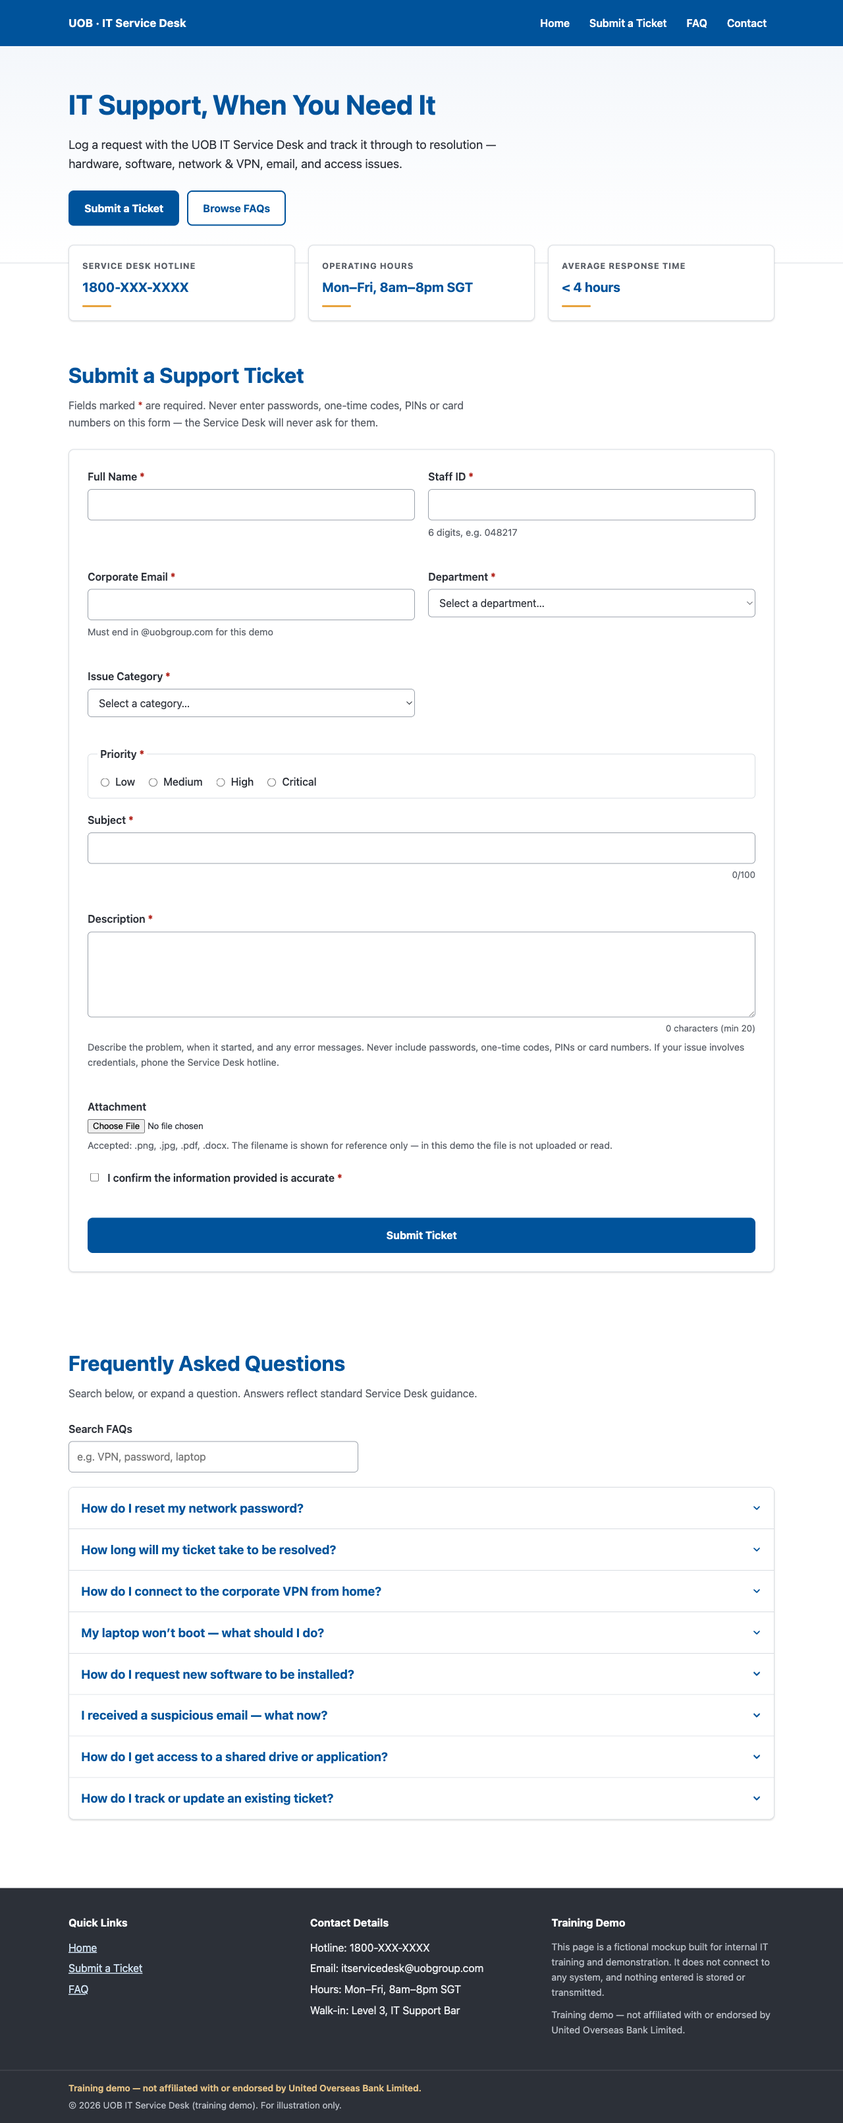
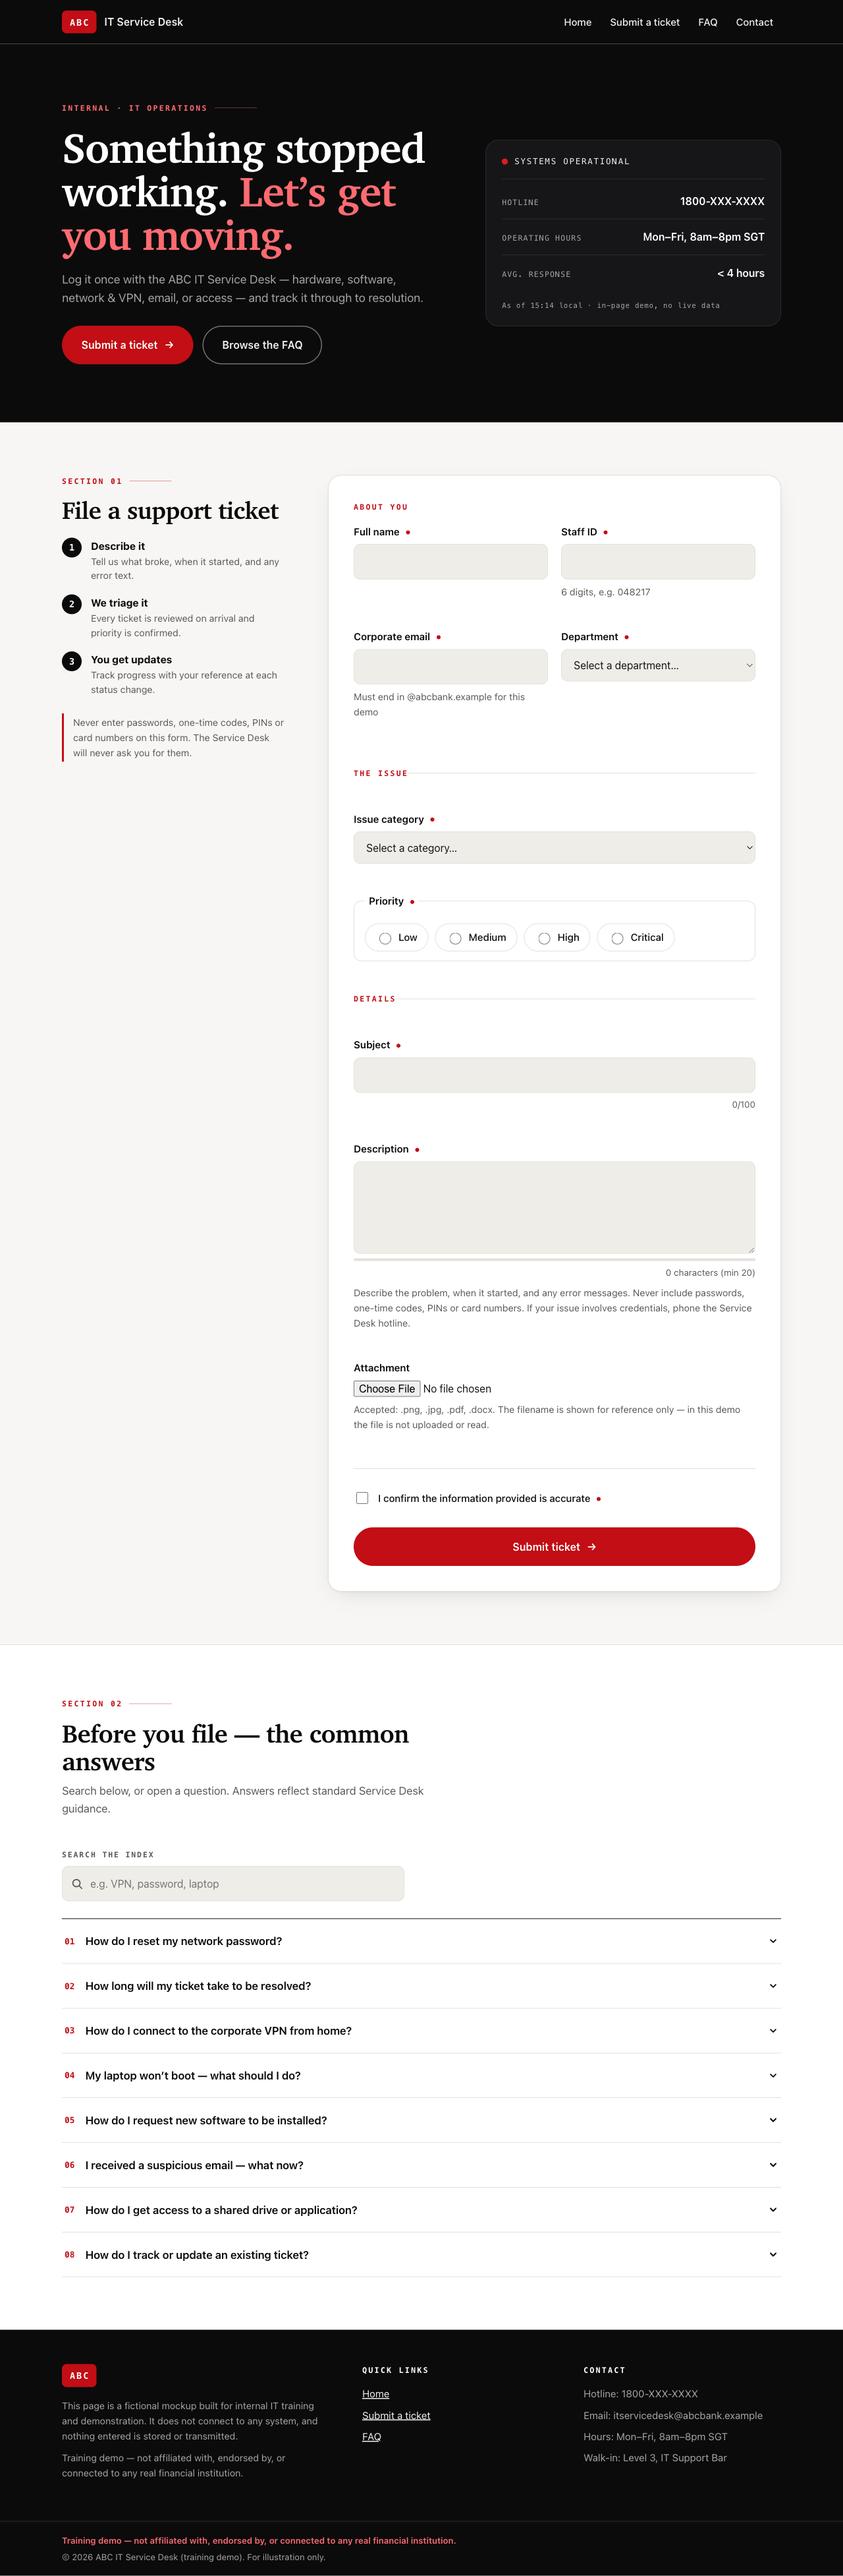
Rewrite README for the ABC re-theme; refresh preview screenshot
- README.md: retitled "ABC IT Service Desk", updated ticket-ref format to
  ABC-ITSD-*, described the grouped form / FAQ index / motion, generic
  non-affiliation disclaimer, added a Deployment note. No real bank named.
- docs/screenshot.png: recaptured full-page for the black/red ABC design.

diff --git a/README.md b/README.md
@@ -1,14 +1,15 @@
-# UOB IT Service Desk — Training Demo
+# ABC IT Service Desk — Training Demo
 
-A single self-contained HTML page ([index.html](index.html)) that mockups an internal
-IT Support Service Desk, themed as "UOB Bank". It is a training/demo artifact only —
-**not a real product, and it must not be presented as one.**
+A single self-contained HTML page ([index.html](index.html)) that mocks up an internal
+IT Support Service Desk for a fictional "ABC" organisation. It is a training/demo
+artifact only — **not a real product, not a real bank, and it must not be presented
+as one.**
 
 **Live demo:** https://billnguyense.github.io/claude-demo/
 
 ## Preview
 
-![Screenshot of the UOB IT Service Desk training demo page](docs/screenshot.png)
+![Screenshot of the ABC IT Service Desk training demo page](docs/screenshot.png)
 
 ## Running it
 
@@ -22,33 +23,53 @@ It must work from `file://`. There is no build step, no framework, and no depend
 
 ## What's inside
 
-One file, organised as four sections — Header/Hero, Ticket Form, FAQ, Footer — followed by a
-single IIFE `<script>`. Features:
+One file: four commented regions — Header/Hero, Ticket Form, FAQ, Footer — followed by a
+single IIFE `<script>`. Notable pieces:
 
-- A ticket submission form with data-driven, client-side validation
-- A generated ticket reference (`UOB-ITSD-YYYYMMDD-####`) and priority-based SLA on success
-- A searchable, one-at-a-time FAQ accordion
-- An advisory heuristic that warns (but never blocks) if a password-like string is typed into the
-  Description field
+- A **support-ticket form** with data-driven, client-side validation (a `validators` map +
+  `FIELD_ORDER`), grouped into *About you / The issue / Details* fieldsets.
+- A generated ticket reference (`ABC-ITSD-YYYYMMDD-####`) and a priority-based SLA shown on
+  the success panel. The reference is a display string, not a security token.
+- A searchable, one-at-a-time **FAQ index** (custom `aria-expanded` accordion).
+- An advisory heuristic that **warns but never blocks** if a password- or card-like string
+  is typed into the Description field.
+- Motion that stays out of the way: a scroll-progress rail, a hero load sequence,
+  `IntersectionObserver` section reveals, a pulsing status dot, and a live character meter —
+  all disabled under `prefers-reduced-motion`.
 
 ## Deliberate constraints
 
-These are security/privacy properties of the demo. Breaking any of them is a bug:
+These are security/privacy properties of the demo. Breaking any of them is a bug, even if
+it "works":
 
-- **No network**: no `fetch`/XHR/beacon/WebSocket, no external scripts, styles, fonts, or images.
-  Enforced by a `Content-Security-Policy` `<meta>` tag (`default-src 'none'`).
+- **No network**: no `fetch`/XHR/beacon/WebSocket, no external scripts, styles, fonts, or
+  images, no CDN. Enforced by a `Content-Security-Policy` `<meta>` tag
+  (`default-src 'none'`; `form-action 'none'`; `frame-ancestors 'none'`). No inline event
+  handlers — listeners are wired with `addEventListener`.
 - **No persistence**: no `localStorage`, `sessionStorage`, cookies, or IndexedDB. Submitted
   tickets live only in an in-memory array and vanish on reload.
-- **No `innerHTML` with dynamic data**: all runtime text goes through `textContent` / DOM nodes
-  (XSS guard).
-- **No credential capture**: no fields for passwords, OTPs, PINs, or card numbers.
-- **Keep the disclaimer** in the footer and placeholder values (e.g. the `1800-XXX-XXXX` hotline).
+- **No `innerHTML` with dynamic data**: all runtime-set text goes through `textContent` or
+  DOM node creation (XSS guard).
+- **No credential capture**: no fields for passwords, OTPs, PINs, or card numbers. The
+  Description heuristic is advisory only.
+- **Keep the disclaimer** in the footer, and keep placeholder values (e.g. the
+  `1800-XXX-XXXX` hotline) as placeholders.
+
+The page names the Anthropic/Claude typefaces first in its font stack with full system
+fallbacks; it does **not** load any web font (`@font-face` / remote / data-URI), consistent
+with the no-network rule.
+
+## Deployment
+
+[.github/workflows/deploy-pages.yml](.github/workflows/deploy-pages.yml) publishes
+`index.html` to GitHub Pages on every push to `main` (and via manual `workflow_dispatch`).
 
 ## Checks
 
-No test suite exists. For an optional JS syntax check (requires Node), extract the `<script>`
-block and run `node --check` on it.
+No test suite exists. For an optional JS syntax check (requires Node), extract the
+`<script>` block and run `node --check` on it.
 
 ---
 
-Training demo — not affiliated with or endorsed by United Overseas Bank Limited.
+Training demo — not affiliated with, endorsed by, or connected to any real financial
+institution.
